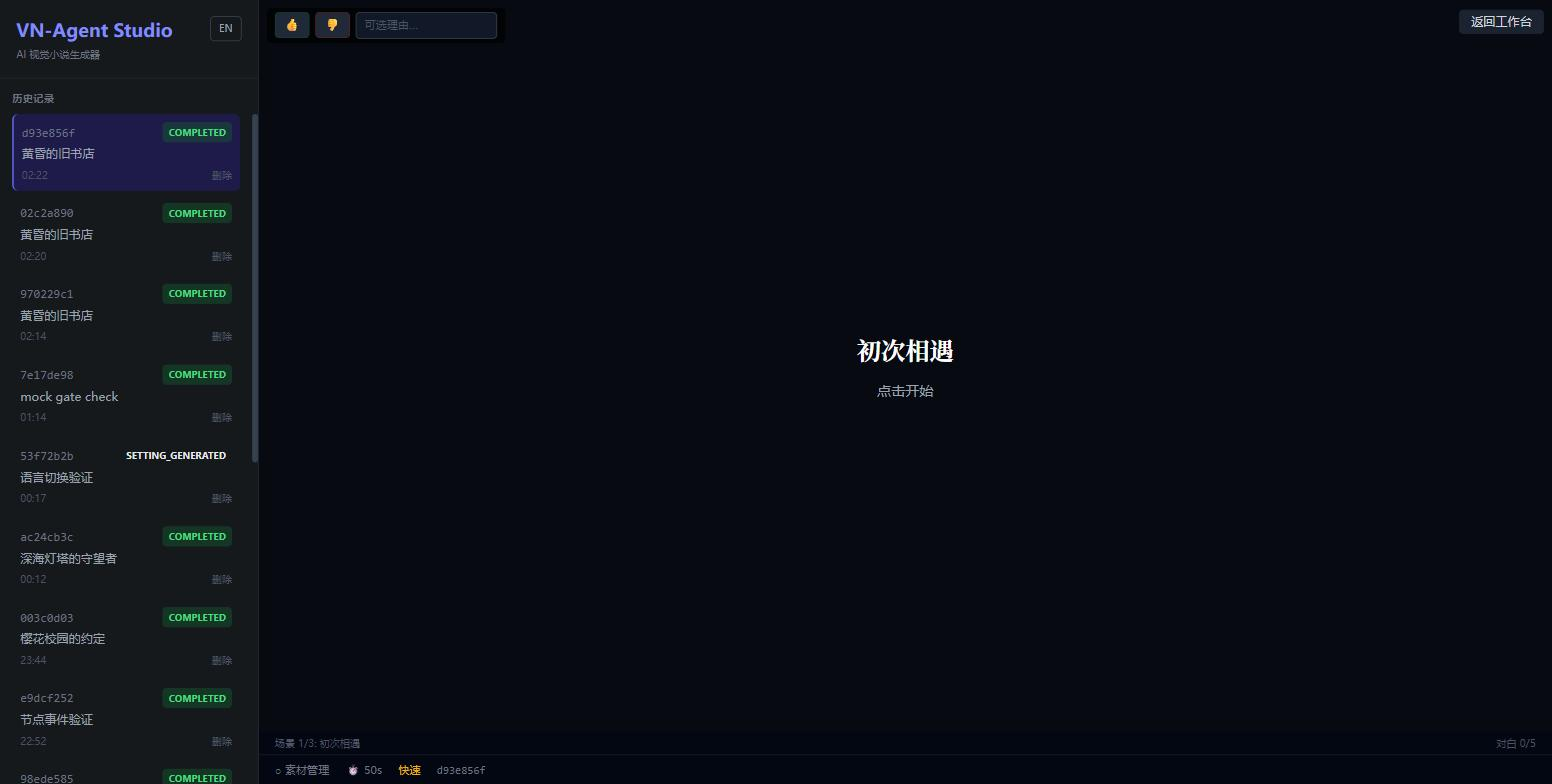
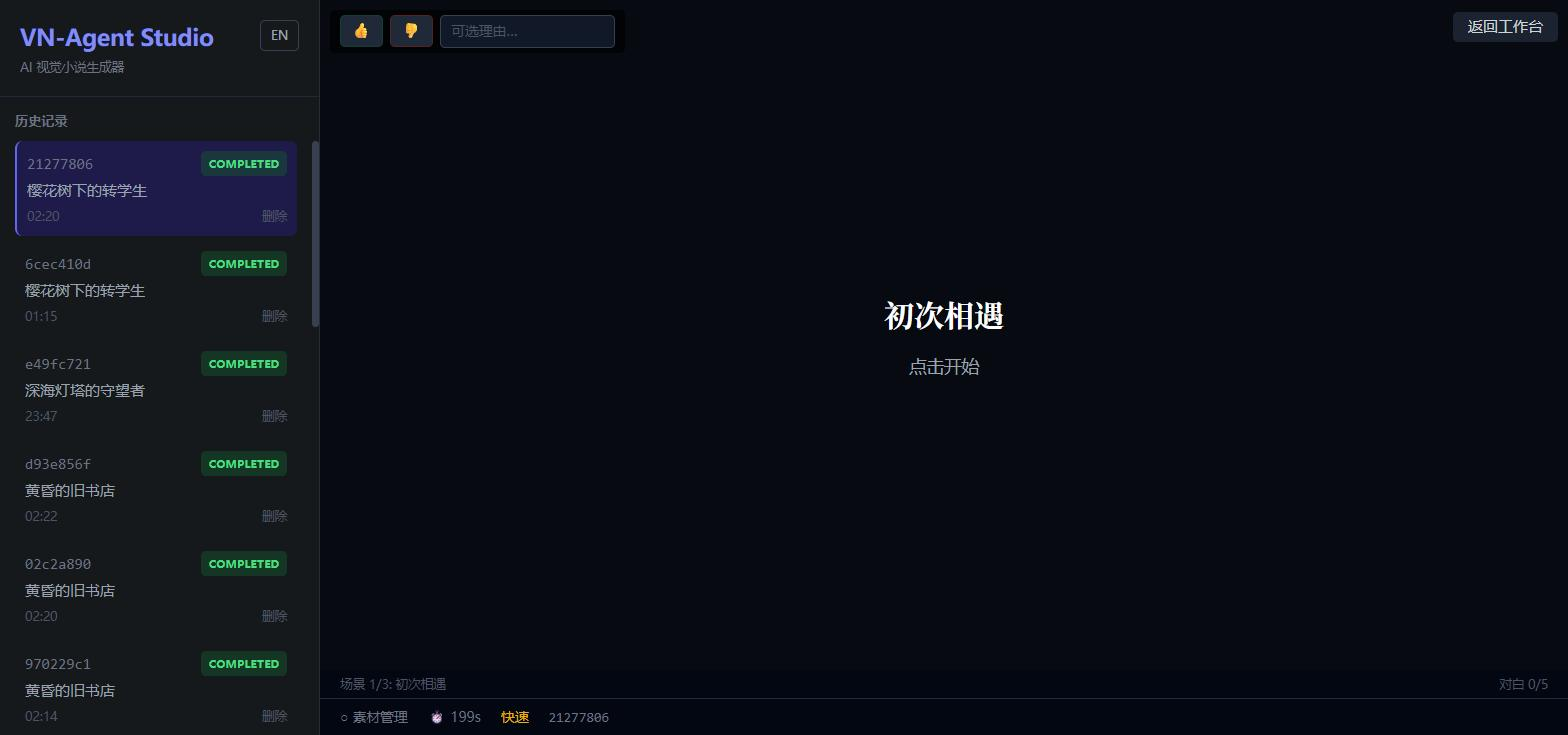
docs: record what the browser walkthrough actually verified
First end-to-end click-through of the v2 workbench since it became the
default shell. Ten checks pass, including the two the type checker cannot
reach: the pipeline theatre lighting nodes from real `graph.astream()`
events, and the language toggle retranslating the entire chat history
while leaving the user's theme and the LLM's generated titles in Chinese.

Zero billable calls, confirmed live mid-run: calls:0 / $0.0.

Reshot workbench-player.jpg. The old one was captured from a job themed
"黄昏的旧书店" but opened on scene "初次相遇", because the mock picks its
fixture by language rather than by theme — an interviewer would spot the
mismatch immediately. The new capture uses a theme the fixture agrees
with. The pipeline-theatre shot still carries the old mismatch and is
flagged as such.

Two real defects found by running it rather than reading it:

- The runbook promised 40-90s for a three-scene mock run; it took 199s.
  The cause is visible in the backend log: the sentence-transformers lore
  index is rebuilt once per scene, synchronous CPU work on the async event
  loop, which blocks every other request — `/status` hangs alongside it.
  Demo pacing is now written against the measured number.
- The scene film strip never advanced past 0/5 before jumping to the
  finished player, so §3A step 5's "scenes stream in as they're written"
  is marked unverified rather than left as a talking point.

The GIF export failed a second time — reports success with 9 frames and
[…]

diff --git a/docs/v4/SHOWCASE_v4.md b/docs/v4/SHOWCASE_v4.md
@@ -120,7 +120,9 @@ Remove-Item Env:ANTHROPIC_API_KEY, Env:GOOGLE_API_KEY, Env:OPENAI_API_KEY -Error
 | 5 | 场景胶片条逐格填充 | 「场景是边生成边流过来的，不是等全部做完。」 |
 | 6 | 自动进入全幅播放器 | 「零点击。工作台让位给作品本身。」 |
 
-**耗时**：mock 下约 40–90 秒（3 场景）。刚好够讲完上面这些。
+**耗时**：⚠ **实测 199 秒**（3 场景，mock，2026-08-12）。此前本行写「约 40–90 秒」是低估。
+**原因**：每个场景都会重建一次 sentence-transformers 的 lore 检索索引（后端日志里能看到 `BertModel LOAD REPORT` 反复出现），这是同步 CPU 工作跑在 async 事件循环里——**期间整个后端被阻塞**，连 `/status` 都会挂住。
+**对演示的影响**：别按 90 秒设计口播节奏，按 3 分钟准备；或者在演示前先跑一次预热，让模型进缓存。这段等待正好用来讲 §3A 步骤 3 的那段话。
 
 ### 3B · 3 分钟版（有时间、或面试官想看细节）
 
@@ -146,23 +148,33 @@ Remove-Item Env:ANTHROPIC_API_KEY, Env:GOOGLE_API_KEY, Env:OPENAI_API_KEY -Error
 
 断网或时间不够时，按 §3A 的口播词讲这两张图即可——**信息量和现场跑基本相同，只是少了「它真的在动」这一层说服力**。
 
-> ⚠ **这两张截图带着 §3A 顶部说的那个主题错位**：job `d93e856f` 的主题是「黄昏的旧书店」，但播放器里显示的是「初次相遇」（樱花 fixture）。左侧历史栏也能看到 `mock gate check`、`节点事件验证` 这类调试用 job。
-> **要么**演示时不把截图放大到能看清这些细节，**要么**按 §3A 的主题重拍一次（重拍步骤见下方「待办」）。当前两张仍可用于讲流水线形态与播放器形态，那部分是准确的。
+> ✅ **`workbench-player.jpg` 已于 2026-08-12 重拍**（job `21277806`，主题「樱花树下的转学生」→ 场景「初次相遇」）：主题错位已消除，可以放心放大讲。
+> ⚠ **`workbench-pipeline-theatre.jpg` 仍是旧图**（2026-08-11，主题「黄昏的旧书店」），仍带主题错位，左侧历史栏还能看到 `mock gate check` 这类调试 job。**要么别放大，要么按 §3A 再跑一次重拍。**
 
-### 已验证 / 未验证（2026-08-11 收尾）
+### 已验证 / 未验证（2026-08-12 浏览器实机走查）
 
 | 项 | 状态 | 证据 |
 |---|---|---|
-| PowerShell 启动命令（§1 全部） | ✅ 实跑通过 | 后端 200 / 前端 200 |
-| 启动 banner 显示 mock 状态 | ✅ 实跑通过 | `[vn-agent] VN_AGENT_MOCK='1' -> mock floor ON` |
-| 端到端 mock 生成（3 幕，主题「樱花树下的转学生」） | ✅ `completed` | job `6cec410d` |
-| **零花费** | ✅ | `{"calls":0,"estimated_cost_usd":0.0}`（生成中与完成后各查一次） |
-| 主题 / 标题 / 角色 / 场景自洽 | ✅ | 樱花树下的转学生 → 樱花树下的约定 · 小雪/小明 · 初次相遇/午后对话/樱花下的约定 |
-| **§3A 六步、§3B 八步的逐屏走查** | ❌ **未做** | Chrome 扩展本次全程未连上（`/compact` 同时报 403，是同一个登录过期）。上一次完整走查是 2026-08-11 早些时候的 10/10 通过 |
-| **录屏 GIF** | ❌ **仍未产出** | 同上，被扩展阻塞。这是第二次尝试失败 |
+| PowerShell 启动命令（§1 全部） | ✅ | 后端 200 / 前端 200 |
+| 启动 banner 显示 mock 状态 | ✅ | `[vn-agent] VN_AGENT_MOCK='1' -> mock floor ON` |
+| v2 工作台是默认外壳 | ✅ | `localStorage` 为空、URL 无参数，直接进 v2 |
+| §1 空态三件事 | ✅ | 历史加载 / 「输入一个主题开始生成」/ 底部「就绪」 |
+| §3A 步骤 1–2（输入主题 → 一键生成） | ✅ | job `21277806` |
+| §3A 步骤 3（流水线剧场节点依次点亮） | ✅ | 导演·结构审校·状态编排·分场推理 变绿，**交叉引用高亮为当前节点** |
+| §3A 步骤 4（素材生成「已跳过」） | ✅ | 灰显 + 「已跳过」标签，**不是一直转圈** |
+| §3A 步骤 6（零点击进全幅播放器） | ✅ | 生成完成后自动进入，全程未再点击 |
+| **零花费** | ✅ | 录制过程中实时查询：`{"calls":0,"estimated_cost_usd":0.0}` |
+| 主题 / 标题 / 场景自洽 | ✅ | 樱花树下的转学生 → 《樱花树下的约定》→ 初次相遇。**主题错位已消除** |
+| 素材面板空态诚实 | ✅ | 背景(2)/角色(6)/BGM(2)，占位素材明确标「占位图」 |
+| **§3B 步骤 8（EN 切换整段历史重译）** | ✅ **最强的一条** | 全部界面文案与历史消息重译；**用户输入的「樱花树下的转学生」与 LLM 生成的「樱花树下的约定」「初次相遇」保持中文不动** |
+| §3A 步骤 5（场景胶片条逐格填充） | ⚠ 未看到 | 全程停在 `场景 0/5`，完成后直接跳到播放器。可能是后端阻塞导致中间态没推上来（见下）。**别把「边生成边流过来」当卖点讲，除非你自己先复现过** |
+| §3B 步骤 2–7（设定确认 → 故事板 → 卡片详情 → 从卡片播放 → Chat Ops 铅笔） | ❌ 未走查 | 扩展中途掉线 |
+| `?shell=v1` 逃生口 | ❌ 未复验 | 同上。代码仍在（`useShellVariant.ts`） |
+| **录屏 GIF** | ❌ **第二次失败** | 导出报告成功（9 帧 / 1109KB），但文件**从未落盘**——Downloads 与整个用户目录下都搜不到。**不再重试，用截图兜底** |
 
-**待办（需要人在场，几分钟）**：重新登录后，按 §3A 用主题「樱花树下的转学生」跑一遍，顺手重拍两张截图（换掉带主题错位的旧图）并录 GIF。
-**没做也能演**——上面那张表里所有「服务能起、跑得通、不花钱」的部分都已实跑验证过。
+**本次新发现的两个问题**（都已在上面标注）：
+1. **后端会被自己阻塞**：每场景重建一次 sentence-transformers 索引，同步 CPU 工作跑在 async 事件循环里，期间 `/status` 等所有请求一起挂住。演示时表现为「看起来卡住了」。
+2. **浏览器截图偶发超时**（`Page.captureScreenshot timed out`），大概率是同一个根因——渲染线程等后端响应。重试一次通常就好。
 
 ---
 
